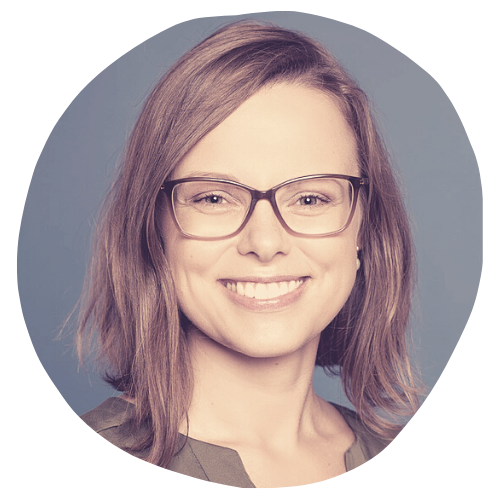
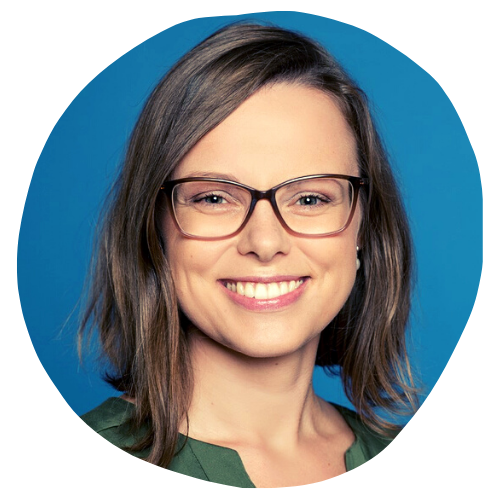
Updated publications

diff --git a/index.html b/index.html
@@ -248,6 +248,9 @@ $(document).ready(function () {
 <li>
   <a href="media.html">In media</a>
 </li>
+<li>
+  <a href="IGreferences.html"></a>
+</li>
       </ul>
       <ul class="nav navbar-nav navbar-right">
         
@@ -309,7 +312,6 @@ $(document).ready(function () {
 </div>
 <div id="behavioural-insights" class="section level4">
 <h4>• Behavioural insights</h4>
-<!-- /* -->
 <!-- <svg viewBox="0 0 512 512" xmlns="http://www.w3.org/2000/svg" style="fill:currentColor;position:relative;display:inline-block;top:.1em;height:2em;">  <title></title>  <path d="M478.33,433.6l-90-218a22,22,0,0,0-40.67,0l-90,218a22,22,0,1,0,40.67,16.79L316.66,406H419.33l18.33,44.39A22,22,0,0,0,458,464a22,22,0,0,0,20.32-30.4ZM334.83,362,368,281.65,401.17,362Z"></path>  <path d="M267.84,342.92a22,22,0,0,0-4.89-30.7c-.2-.15-15-11.13-36.49-34.73,39.65-53.68,62.11-114.75,71.27-143.49H330a22,22,0,0,0,0-44H214V70a22,22,0,0,0-44,0V90H54a22,22,0,0,0,0,44H251.25c-9.52,26.95-27.05,69.5-53.79,108.36-31.41-41.68-43.08-68.65-43.17-68.87a22,22,0,0,0-40.58,17c.58,1.38,14.55,34.23,52.86,83.93.92,1.19,1.83,2.35,2.74,3.51-39.24,44.35-77.74,71.86-93.85,80.74a22,22,0,1,0,21.07,38.63c2.16-1.18,48.6-26.89,101.63-85.59,22.52,24.08,38,35.44,38.93,36.1a22,22,0,0,0,30.75-4.9Z"></path></svg>  -->
 <!-- ### Language skills -->
 <!-- #### Estonian <svg viewBox="0 0 512 512" xmlns="http://www.w3.org/2000/svg" style="height:1em;fill:currentColor;position:relative;display:inline-block;top:.1em;">  <title></title>  <path d="M256,464C141.31,464,48,370.69,48,256S141.31,48,256,48s208,93.31,208,208S370.69,464,256,464Z"></path></svg><svg viewBox="0 0 512 512" xmlns="http://www.w3.org/2000/svg" style="height:1em;fill:currentColor;position:relative;display:inline-block;top:.1em;">  <title></title>  <path d="M256,464C141.31,464,48,370.69,48,256S141.31,48,256,48s208,93.31,208,208S370.69,464,256,464Z"></path></svg> <svg viewBox="0 0 512 512" xmlns="http://www.w3.org/2000/svg" style="height:1em;fill:currentColor;position:relative;display:inline-block;top:.1em;">  <title></title>  <path d="M256,464C141.31,464,48,370.69,48,256S141.31,48,256,48s208,93.31,208,208S370.69,464,256,464Z"></path></svg> <svg viewBox="0 0 512 512" xmlns="http://www.w3.org/2000/svg" style="height:1em;fill:currentColor;position:relative;display:inline-block;top:.1em;">  <title></title>  <path d="M256,464C141.31,464,48,370.69,48,256S141.31,48,256,48s208,93.31,208,208S370.69,464,256,464Z"></path></svg> <svg viewBox="0 0 512 512" xmlns="http://www.w3.org/2000/svg" style="height:1em;fill:currentColor;position:relative;display:inline-block;top:.1em;">  <title></title>  <path d="M256,464C141.31,464,48,370.69,48,256S141.31,48,256,48s208,93.31,208,208S370.69,464,256,464Z"></path></svg> <svg viewBox="0 0 512 512" xmlns="http://www.w3.org/2000/svg" style="height:1em;fill:currentColor;position:relative;display:inline-block;top:.1em;">  <title></title>  <path d="M256,464C141.31,464,48,370.69,48,256S141.31,48,256,48s208,93.31,208,208S370.69,464,256,464Z"></path></svg>  -->
@@ -318,7 +320,6 @@ $(document).ready(function () {
 <!-- #### German <svg viewBox="0 0 512 512" xmlns="http://www.w3.org/2000/svg" style="height:1em;fill:currentColor;position:relative;display:inline-block;top:.1em;">  <title></title>  <path d="M256,464C141.31,464,48,370.69,48,256S141.31,48,256,48s208,93.31,208,208S370.69,464,256,464Z"></path></svg><svg viewBox="0 0 512 512" xmlns="http://www.w3.org/2000/svg" style="height:1em;fill:currentColor;position:relative;display:inline-block;top:.1em;">  <title></title>  <path d="M256,464C141.31,464,48,370.69,48,256S141.31,48,256,48s208,93.31,208,208S370.69,464,256,464Z"></path></svg> <svg viewBox="0 0 512 512" xmlns="http://www.w3.org/2000/svg" style="height:1em;fill:currentColor;position:relative;display:inline-block;top:.1em;">  <title></title>  <path d="M256,464C141.31,464,48,370.69,48,256S141.31,48,256,48s208,93.31,208,208S370.69,464,256,464Z"></path></svg> <svg viewBox="0 0 512 512" xmlns="http://www.w3.org/2000/svg" style="height:1em;fill:currentColor;position:relative;display:inline-block;top:.1em;">  <title></title>  <circle cx="256" cy="256" r="192" style="fill:none;stroke:#000;stroke-linecap:round;stroke-linejoin:round;stroke-width:32px"></circle></svg> <svg viewBox="0 0 512 512" xmlns="http://www.w3.org/2000/svg" style="height:1em;fill:currentColor;position:relative;display:inline-block;top:.1em;">  <title></title>  <circle cx="256" cy="256" r="192" style="fill:none;stroke:#000;stroke-linecap:round;stroke-linejoin:round;stroke-width:32px"></circle></svg> <svg viewBox="0 0 512 512" xmlns="http://www.w3.org/2000/svg" style="height:1em;fill:currentColor;position:relative;display:inline-block;top:.1em;">  <title></title>  <circle cx="256" cy="256" r="192" style="fill:none;stroke:#000;stroke-linecap:round;stroke-linejoin:round;stroke-width:32px"></circle></svg>  -->
 <!-- #### Russian <svg viewBox="0 0 512 512" xmlns="http://www.w3.org/2000/svg" style="height:1em;fill:currentColor;position:relative;display:inline-block;top:.1em;">  <title></title>  <path d="M256,464C141.31,464,48,370.69,48,256S141.31,48,256,48s208,93.31,208,208S370.69,464,256,464Z"></path></svg><svg viewBox="0 0 512 512" xmlns="http://www.w3.org/2000/svg" style="height:1em;fill:currentColor;position:relative;display:inline-block;top:.1em;">  <title></title>  <path d="M256,464C141.31,464,48,370.69,48,256S141.31,48,256,48s208,93.31,208,208S370.69,464,256,464Z"></path></svg><svg viewBox="0 0 512 512" xmlns="http://www.w3.org/2000/svg" style="height:1em;fill:currentColor;position:relative;display:inline-block;top:.1em;">  <title></title>  <circle cx="256" cy="256" r="192" style="fill:none;stroke:#000;stroke-linecap:round;stroke-linejoin:round;stroke-width:32px"></circle></svg> <svg viewBox="0 0 512 512" xmlns="http://www.w3.org/2000/svg" style="height:1em;fill:currentColor;position:relative;display:inline-block;top:.1em;">  <title></title>  <circle cx="256" cy="256" r="192" style="fill:none;stroke:#000;stroke-linecap:round;stroke-linejoin:round;stroke-width:32px"></circle></svg> <svg viewBox="0 0 512 512" xmlns="http://www.w3.org/2000/svg" style="height:1em;fill:currentColor;position:relative;display:inline-block;top:.1em;">  <title></title>  <circle cx="256" cy="256" r="192" style="fill:none;stroke:#000;stroke-linecap:round;stroke-linejoin:round;stroke-width:32px"></circle></svg> <svg viewBox="0 0 512 512" xmlns="http://www.w3.org/2000/svg" style="height:1em;fill:currentColor;position:relative;display:inline-block;top:.1em;">  <title></title>  <circle cx="256" cy="256" r="192" style="fill:none;stroke:#000;stroke-linecap:round;stroke-linejoin:round;stroke-width:32px"></circle></svg>  -->
 <!-- #### French <svg viewBox="0 0 512 512" xmlns="http://www.w3.org/2000/svg" style="height:1em;fill:currentColor;position:relative;display:inline-block;top:.1em;">  <title></title>  <path d="M256,464C141.31,464,48,370.69,48,256S141.31,48,256,48s208,93.31,208,208S370.69,464,256,464Z"></path></svg><svg viewBox="0 0 512 512" xmlns="http://www.w3.org/2000/svg" style="height:1em;fill:currentColor;position:relative;display:inline-block;top:.1em;">  <title></title>  <circle cx="256" cy="256" r="192" style="fill:none;stroke:#000;stroke-linecap:round;stroke-linejoin:round;stroke-width:32px"></circle></svg> <svg viewBox="0 0 512 512" xmlns="http://www.w3.org/2000/svg" style="height:1em;fill:currentColor;position:relative;display:inline-block;top:.1em;">  <title></title>  <circle cx="256" cy="256" r="192" style="fill:none;stroke:#000;stroke-linecap:round;stroke-linejoin:round;stroke-width:32px"></circle></svg> <svg viewBox="0 0 512 512" xmlns="http://www.w3.org/2000/svg" style="height:1em;fill:currentColor;position:relative;display:inline-block;top:.1em;">  <title></title>  <circle cx="256" cy="256" r="192" style="fill:none;stroke:#000;stroke-linecap:round;stroke-linejoin:round;stroke-width:32px"></circle></svg> <svg viewBox="0 0 512 512" xmlns="http://www.w3.org/2000/svg" style="height:1em;fill:currentColor;position:relative;display:inline-block;top:.1em;">  <title></title>  <circle cx="256" cy="256" r="192" style="fill:none;stroke:#000;stroke-linecap:round;stroke-linejoin:round;stroke-width:32px"></circle></svg> <svg viewBox="0 0 512 512" xmlns="http://www.w3.org/2000/svg" style="height:1em;fill:currentColor;position:relative;display:inline-block;top:.1em;">  <title></title>  <circle cx="256" cy="256" r="192" style="fill:none;stroke:#000;stroke-linecap:round;stroke-linejoin:round;stroke-width:32px"></circle></svg>  -->
-<!-- */ -->
 </div>
 </div>
 </div>

diff --git a/media.html b/media.html
@@ -324,6 +324,9 @@ div.tocify {
 <li>
   <a href="media.html">In media</a>
 </li>
+<li>
+  <a href="IGreferences.html"></a>
+</li>
       </ul>
       <ul class="nav navbar-nav navbar-right">
         
@@ -348,20 +351,25 @@ div.tocify {
 <div id="opinion-pieces" class="section level2">
 <h2>Opinion pieces</h2>
 <blockquote>
-<p>🇪🇪 Vainre, M. (2020, September 3). <a href="https://www.err.ee/1130553/maris-vainre-on-aeg-lopetada-magamatuse-ulistamine">On aeg lõpetada magamatuse ülistamine</a>. ERR Arvamus.</p>
+<p>🇪🇪 Vainre, M. (2021, March 29). <a href="https://www.err.ee/1608159019/maris-vainre-kuidas-me-teame-et-vaktsiinid-on-piisavalt-ohutud">Kuidas me teame, et vaktsiinid on piisavalt ohutud?</a> ERR Arvamus. <br> <span class="badge badge-primary"><a href="https://github.com/mvainre/ERRarvamus" target="_blank">Repo</a></span></p>
 </blockquote>
-<p><br></p>
+<blockquote>
+<p>🇪🇪 Vainre, M. (2020, September 3). <a href="https://www.err.ee/1130553/maris-vainre-on-aeg-lopetada-magamatuse-ulistamine">On aeg lõpetada magamatuse ülistamine</a>. ERR Arvamus. <br></p>
+</blockquote>
 <svg viewBox="0 0 352 512" xmlns="http://www.w3.org/2000/svg" style="fill:currentColor;position:relative;display:inline-block;top:.1em;height:2em;">
 [ comment ] <path d="M336 192h-16c-8.84 0-16 7.16-16 16v48c0 74.8-64.49 134.82-140.79 127.38C96.71 376.89 48 317.11 48 250.3V208c0-8.84-7.16-16-16-16H16c-8.84 0-16 7.16-16 16v40.16c0 89.64 63.97 169.55 152 181.69V464H96c-8.84 0-16 7.16-16 16v16c0 8.84 7.16 16 16 16h160c8.84 0 16-7.16 16-16v-16c0-8.84-7.16-16-16-16h-56v-33.77C285.71 418.47 352 344.9 352 256v-48c0-8.84-7.16-16-16-16zM176 352c53.02 0 96-42.98 96-96h-85.33c-5.89 0-10.67-3.58-10.67-8v-16c0-4.42 4.78-8 10.67-8H272v-32h-85.33c-5.89 0-10.67-3.58-10.67-8v-16c0-4.42 4.78-8 10.67-8H272v-32h-85.33c-5.89 0-10.67-3.58-10.67-8v-16c0-4.42 4.78-8 10.67-8H272c0-53.02-42.98-96-96-96S80 42.98 80 96v160c0 53.02 42.98 96 96 96z"></path>
 </svg>
 </div>
-<div id="interviews-in-media" class="section level2">
-<h2>Interviews in media</h2>
+<div id="interviews-in-the-media" class="section level2">
+<h2>Interviews in the media</h2>
 <blockquote>
-<p>🇪🇪 Laanepere, L., Mihkels, M. &amp; Vainre, M. (2021, March 8). <a href="https://raha.geenius.ee/raadiosaade/tootund/8-martsi-tootund-kuidas-paremini-toole-keskenduda/">Kuidas paremini tööle keskenduda? (How to focus better at work?)</a>. In Töötund, a Geenius Podcast.<br> <span class="badge badge-primary">Podcast</span></p>
+<p>🇪🇪 Ennet, P. (2021, March 14). <a href="https://vikerraadio.err.ee/1608126085/labor-lapse-keelekeskkond-vaike-maksumuks/1219093">Maris Vainre. Väike maksumüks</a>. In Labor. Vikerraadio.</p>
 </blockquote>
 <blockquote>
-<p>🇪🇪 Värk, J., &amp; Vainre, M. (2021, January 14). <a href="https://www.spreaker.com/user/peaasi.ee/pearaadio-episood-12">Kuidas muutuvates oludes paremini kohaneda? (How to adjust to changes?)</a> (No. 12). In Pearaadio: Vaimse tervise podcast. <br> <span class="badge badge-primary">Podcast</span></p>
+<p>🇪🇪 Laanepere, L., Mihkels, M. &amp; Vainre, M. (2021, March 8). <a href="https://raha.geenius.ee/raadiosaade/tootund/8-martsi-tootund-kuidas-paremini-toole-keskenduda/">Kuidas paremini tööle keskenduda?</a> In Töötund. Geenius Podcast.</p>
+</blockquote>
+<blockquote>
+<p>🇪🇪 Värk, J., &amp; Vainre, M. (2021, January 14). <a href="https://www.spreaker.com/user/peaasi.ee/pearaadio-episood-12">Kuidas muutuvates oludes paremini kohaneda?</a> (No. 12). In Pearaadio: Vaimse tervise podcast.</p>
 </blockquote>
 <blockquote>
 <p>🇪🇪 Harrik, A. (2020, November 12). <a href="https://novaator.err.ee/1157912/stressis-tudengeid-voib-aidata-arksuse-praktiseerimine">Stressis tudengeid võib aidata ärksuse praktiseerimine</a>. ERR Novaator.</p>
@@ -373,10 +381,10 @@ div.tocify {
 <p>🇪🇪 Sahkur, A. (2020, April 23). <a href="http://archimedes.ee/blog/eesti-teadlane-teadveloleku-prakikad-voivad-aidata-eriolukorra-ebamugavust-leevendada/">Eesti teadlane: Teadveloleku praktikad võivad aidata eriolukorra ebamugavust leevendada</a>. Sihtasutus Archimedes.</p>
 </blockquote>
 <blockquote>
-<p>🇪🇪 Antson, A. (2019, March 7). ‘Nügimist’ on katsetatud ka Eestis [“Nudging” has also been used in Estonia]. Postimees, 7.</p>
+<p>🇪🇪 Antson, A. (2019, March 7). ‘Nügimist’ on katsetatud ka Eestis. Postimees.</p>
 </blockquote>
 <blockquote>
-<p>🇪🇪 Antson, A. (2019, March 8). <a href="https://majandus24.postimees.ee/6534889/ehitajate-umbrikupalga-maksmine-vahenes-tanu-kavalale-e-kirjale">Ehitajate ümbrikupalga maksmine vähenes tänu kavalale e-kirjale (Construction industry’s tax evasion was reduced thanks to a clever e-mail)</a>. Postimees, 7.</p>
+<p>🇪🇪 Antson, A. (2019, March 8). <a href="https://majandus24.postimees.ee/6534889/ehitajate-umbrikupalga-maksmine-vahenes-tanu-kavalale-e-kirjale">Ehitajate ümbrikupalga maksmine vähenes tänu kavalale e-kirjale</a>. Postimees.</p>
 </blockquote>
 </div>
 

diff --git a/styles.css b/styles.css
@@ -27,10 +27,10 @@
   --white: #fff;
   --gray: #999;
   --gray-dark: #333;
-  --primary: #c95485;
+  --primary: #1886B5; /* c95485*/
   --secondary: #EEF1EF;
   --success: #4E6E58;
-  --info: #777DA7;
+  --info: #4E6E59;
   --warning: #F7B32B;
   --danger: #E28413;
   --light: #DEDBD2;
@@ -167,13 +167,13 @@ sup {
 }
 
 a {
-  color: #c95485; 
+  color: #1886B5; 
   text-decoration: none;
   background-color: transparent;
 }
 
 a:hover {
-  color: #777DA7;
+  color: #8eb19d;
   text-decoration: underline;
 }
 
@@ -2579,7 +2579,7 @@ fieldset:disabled a.btn {
 
 .btn-primary {
   color: #fff;
-  background-color: #c95485;
+  background-color: #1886B5;
   border-color: #158cba;
 }
 
@@ -4304,7 +4304,7 @@ input[type="button"].btn-block {
 
 .nav-tabs .nav-link.active,
 .nav-tabs .nav-item.show .nav-link {
-  color: #c95485;
+  color: #1886B5;
   background-color: #fff;
   border-color: #f0f0f0;
 }
@@ -4386,7 +4386,7 @@ a.dropdown-toggle:hover {
 .navbar-default .navbar-nav:hover, 
 .navbar-default .navbar-nav>li>a:hover, 
 a.navbar-brand:hover {
-  color: #c95485!important; /* navbar link hover */
+  color: #1886B5!important; /* navbar link hover */
   background-color: #14194BFA7;
 }
 
@@ -5249,7 +5249,7 @@ a.badge-primary:focus, a.badge-primary.focus {
 
 .badge-secondary {
   color: #fff;
-  background-color: #c95485;
+  background-color: #1886B5;
 }
 
 a.badge-secondary:hover, a.badge-secondary:focus {
@@ -5646,8 +5646,8 @@ a.badge-dark:focus, a.badge-dark.focus {
 .list-group-item.active {
   z-index: 2;
   color: #fff;
-  background-color: #c95485; /* TOC background color */
-  border-color: #c95485;
+  background-color: #1886B5; /* TOC background color */
+  border-color: #1886B5;
 }
 
 .list-group-item + .list-group-item {
@@ -10813,6 +10813,17 @@ a.list-group-item-danger.active:hover, a.list-group-item-danger.active:focus {
 
 .container-about-child-other {
   /*width: 33%;*/
-  display: flex;
+  /*display: flex;*/
   flex: 1;
 }
+
+@media (max-width: 768px) {
+  .container-about-parent, .container-about-child-me, .container-about-child-other {
+    -ms-flex-preferred-size: 0;
+    flex-direction: column;
+    justify-content: center;
+    flex-basis: 0;
+    -ms-flex-positive: 1;
+    flex-grow: 1;
+    max-width: 100%;
+  }

diff --git a/publications.html b/publications.html
@@ -324,6 +324,9 @@ div.tocify {
 <li>
   <a href="media.html">In media</a>
 </li>
+<li>
+  <a href="IGreferences.html"></a>
+</li>
       </ul>
       <ul class="nav navbar-nav navbar-right">
         

diff --git a/talks.html b/talks.html
@@ -324,6 +324,9 @@ div.tocify {
 <li>
   <a href="media.html">In media</a>
 </li>
+<li>
+  <a href="IGreferences.html"></a>
+</li>
       </ul>
       <ul class="nav navbar-nav navbar-right">
         
